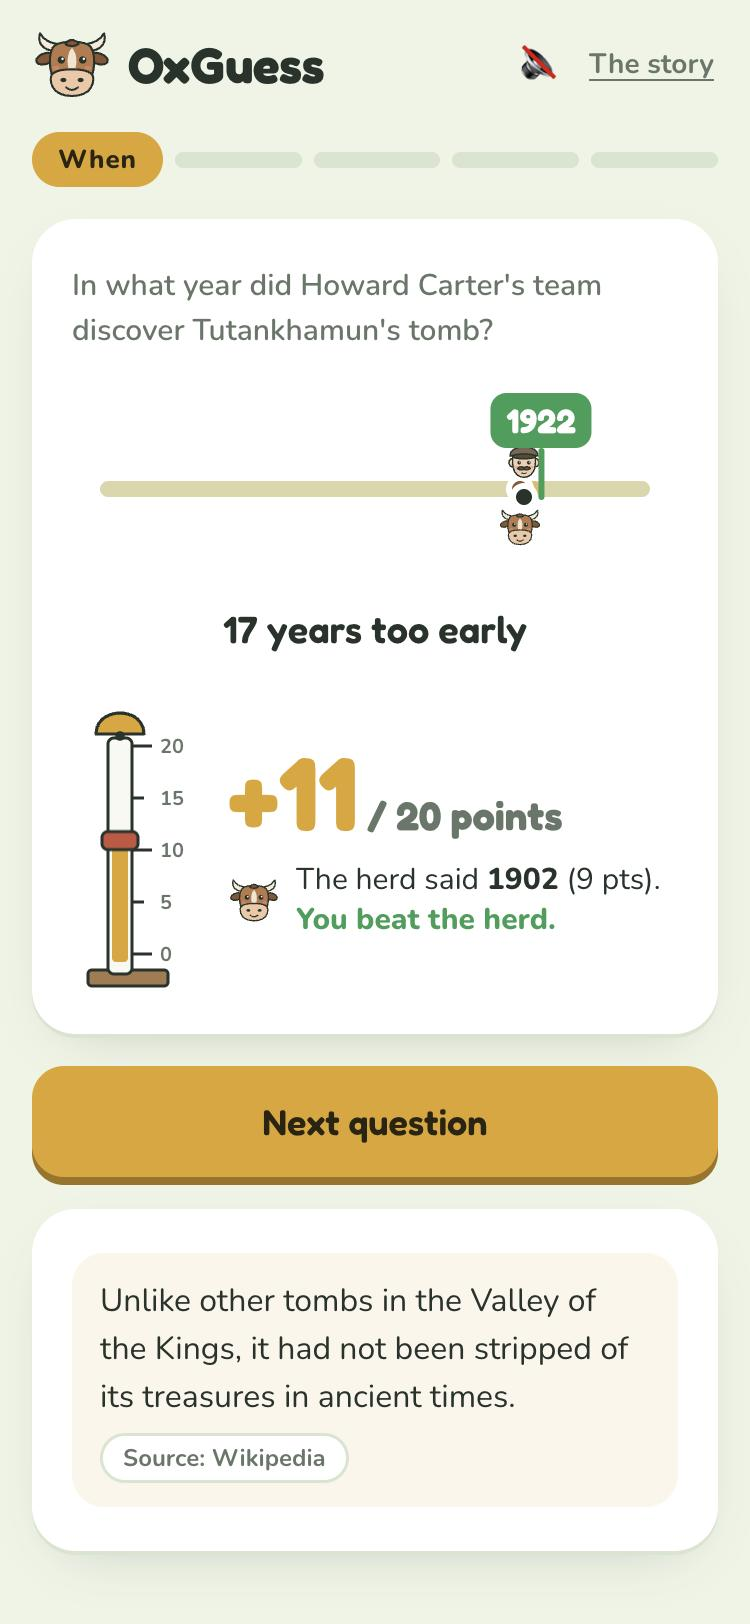
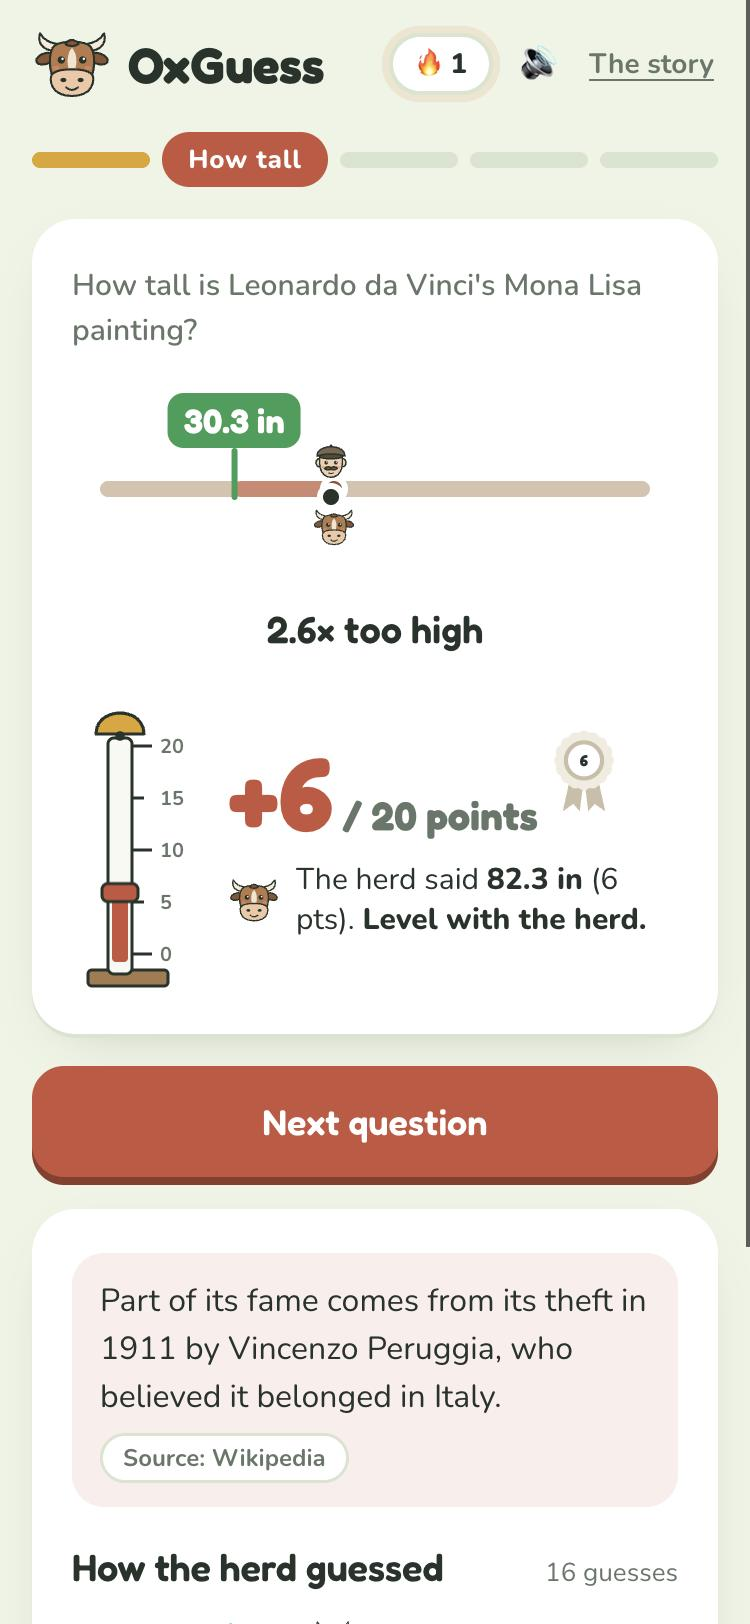
Staging: reveal in order (answer, herd, score, rosette), herd chart under the fact

diff --git a/site/staging/game/js/app.js b/site/staging/game/js/app.js
@@ -1,7 +1,7 @@
 import { oxHead, rosette, fairgoer, balance } from "./art.js";
 import {
   STEPS, CATS, PER_QUESTION, catLabel, catIcon, rangeFor, toValue, toPos, score, points, tierFor, TIERS,
-  withUnit, offBy, herd as makeHerd, SEED_GUESSES,
+  withUnit, offBy, herd as makeHerd, herdVerdict, SEED_GUESSES,
   setSystem, getSystem, convertible, dispUnit, unitPair, toDisp, fromDisp, fmtDisp,
 } from "./game.js";
 import { loadHerds, recordGuess, recordPlay, recordPlayer } from "./herd-store.js";
@@ -439,6 +439,29 @@ function sourceSite(url) {
     return host;
   } catch { return "the source"; }
 }
+function histogram(q, h, g) {
+  const r = rangeFor(q), B = 25, bins = new Array(B).fill(0);
+  h.bins.forEach((c, k) => { bins[Math.floor((k * B) / h.bins.length)] += c; });
+  const mx = Math.max(1, ...bins), W = 320, H = 110, bw = W / B, base = H - 8;
+  const x = (v) => (toPos(q, r, v) / STEPS) * W;
+  const bars = bins.map((c, i) => {
+    const bh = (c / mx) * (H - 34);
+    return `<rect class="bar" style="--i:${i}" x="${(i * bw + 1.5).toFixed(1)}" y="${(base - bh).toFixed(1)}" width="${(bw - 3).toFixed(1)}" height="${bh.toFixed(1)}" rx="3" fill="var(--cat)" opacity=".28"/>`;
+  }).join("");
+  const ax = x(q.answer), gx = x(g), mx2 = x(h.median), top = 26;
+  const icon = (cx, svg) => `<svg x="${(cx - 11).toFixed(1)}" y="${top - 23}" width="22" height="22" viewBox="0 0 120 120" overflow="visible">${svg.replace(/^<svg[^>]*>|<\/svg>$/g, "")}</svg>`;
+  return `<svg viewBox="-12 0 ${W + 24} ${H + 4}" role="img" aria-label="How the herd guessed">
+    ${bars}
+    <line x1="0" x2="${W}" y1="${base}" y2="${base}" stroke="var(--line)" stroke-width="1.5"/>
+    <line x1="${mx2}" x2="${mx2}" y1="${top}" y2="${base}" stroke="var(--ox-dark)" stroke-width="2" stroke-dasharray="3 3"/>
+    ${icon(mx2, oxHead({ size: 120 }))}
+    <line x1="${gx}" x2="${gx}" y1="${top}" y2="${base}" stroke="var(--ink)" stroke-width="2.5"/>
+    ${icon(gx, fairgoer({ size: 120 }))}
+    <line x1="${ax}" x2="${ax}" y1="${top - 18}" y2="${base}" stroke="var(--good)" stroke-width="3" stroke-linecap="round"/>
+    <path d="M${ax + 1.5} ${top - 18} l11 4.5 l-11 4.5 z" fill="var(--good)"/>
+  </svg>`;
+}
+
 // The fairground strength tester: the puck flies up to your points and rings the bell at 20.
 function striker() {
   const marks = [0, 5, 10, 15, 20].map((p) => {
@@ -457,34 +480,41 @@ function striker() {
 
 function reveal(i, { animate = false } = {}) {
   screen = "reveal";
-  const q = today.questions[i], a = state.answers[i], h = herd(q), r = rangeFor(q);
-  const p = points(q, a.g), them = points(q, h.median), last = i === today.questions.length - 1;
+  const q = today.questions[i], a = state.answers[i], h = herd(q), r = rangeFor(q), v = herdVerdict(q, h, a.g);
+  const p = points(q, a.g), them = points(q, h.median), t = tierFor(p), last = i === today.questions.length - 1;
   const gpos = toPos(q, r, a.g) / STEPS, apos = toPos(q, r, q.answer) / STEPS, hpos = toPos(q, r, h.median) / STEPS;
   // One line for the duel on this question: the herd's guess and who got closer.
   const duel = p > them ? `<b class="win">You beat the herd.</b>` : p === them ? `<b>Level with the herd.</b>` : `<b>The herd got closer.</b>`;
+  const hide = animate ? "is-hidden" : "";
   render(`
     ${progress(i, true)}
     <section class="card reveal">
       <p class="muted q-small">${q.q}</p>
       <div class="rail-wrap" aria-hidden="true">
         <div class="rail"></div>
-        <div class="span-bar" id="span" style="left:${Math.min(gpos, apos) * 100}%; width:${Math.abs(apos - gpos) * 100}%"></div>
-        <div class="herd-pin ${animate ? "is-hidden" : ""}" id="herd-pin" style="left:${hpos * 100}%"><i></i><span>${oxHead({ size: 22 })}</span></div>
+        <div class="span-bar ${hide}" id="span" style="left:${Math.min(gpos, apos) * 100}%; width:${Math.abs(apos - gpos) * 100}%"></div>
+        <div class="herd-pin ${hide}" id="herd-pin" style="left:${hpos * 100}%"><i></i><span>${oxHead({ size: 22 })}</span></div>
         <div class="you-pin" style="left:${gpos * 100}%"><i></i><span>${fairgoer({ size: 22 })}</span></div>
-        <div class="flag" id="flag" style="left:${apos * 100}%"><span id="flag-num">${withUnit(q, q.answer)}</span><i></i></div>
+        <div class="flag ${hide}" id="flag" style="left:${apos * 100}%"><span id="flag-num">${withUnit(q, q.answer)}</span><i></i></div>
       </div>
-      <p class="off-line ${animate ? "is-hidden" : ""}" id="off">${offBy(q, a.g)}</p>
+      <p class="off-line ${hide}" id="off">${offBy(q, a.g)}</p>
       <div class="judging">
         ${striker()}
         <div class="verdict">
-          <div class="plus"><span>+</span><span id="pts">${p}</span><small> / ${PER_QUESTION} points</small></div>
-          <p class="duel ${animate ? "is-hidden" : ""}" id="duel">${oxHead({ size: 26 })}<span>The herd said <b>${withUnit(q, h.median)}</b> (${them} pts). ${duel}</span></p>
+          <div class="plus-row"><div class="plus"><span>+</span><span id="pts">${p}</span><small> / ${PER_QUESTION} points</small></div><span class="mini-rosette ${hide}" id="rosette" title="${t.name}">${rosette(t.key, p, 34)}</span></div>
+          <p class="duel ${hide}" id="duel">${oxHead({ size: 26 })}<span>The herd said <b>${withUnit(q, h.median)}</b> (${them} pts). ${duel}</span></p>
         </div>
       </div>
     </section>
-    <button class="btn primary big ${animate ? "is-hidden" : ""}" id="next">${last ? "See how you did" : "Next question"}</button>
+    <button class="btn primary big ${hide}" id="next">${last ? "See how you did" : "Next question"}</button>
     <section class="card later ${animate ? "" : "shown"}">
         <div class="fact"><p>${q.fact}</p>${q.source ? `<a class="source-chip" href="${q.source.url}" target="_blank" rel="noopener">Source: ${sourceSite(q.source.url)}</a>` : ""}</div>
+        <div class="herd">
+          <div class="herd-head"><h2>How the herd guessed</h2><span class="muted">${h.players.toLocaleString("en-GB")} guesses</span></div>
+          ${histogram(q, h, a.g)}
+          <div class="legend"><span><i style="background:var(--good)"></i>Answer ${withUnit(q, q.answer)}</span><span>${fairgoer({ size: 14 })} You ${withUnit(q, a.g)} · ${p} pts</span><span>${oxHead({ size: 14 })} Herd ${withUnit(q, h.median)} · ${them} pts</span></div>
+          <p class="herd-beat">You beat <b>${v.beat}%</b> of the herd.</p>
+        </div>
     </section>`, q.cat);
 
   const puck = document.getElementById("puck"), fill = document.getElementById("fill");
@@ -502,12 +532,20 @@ function reveal(i, { animate = false } = {}) {
   if (!animate) { setStriker(); return; }
 
   (async () => {
-    // 1. The answer flag travels from your guess to the real answer, its number ticking as it goes.
-    const flag = document.getElementById("flag"), num = document.getElementById("flag-num"), span = document.getElementById("span");
-    const travel = Math.round(450 + Math.abs(apos - gpos) * 1100);
     const reduce = window.matchMedia?.("(prefers-reduced-motion: reduce)").matches;
-    document.getElementById("pts").textContent = "0";
+    const $ = (id) => document.getElementById(id);
+    const show = (id, scale = 1.08) => { const el = $(id); if (!el) return null; el.classList.remove("is-hidden"); pop(el, scale); return el; };
+    $("pts").textContent = "0";
+
+    // 1. Your guess sits on the line for a beat.
+    await wait(350);
+
+    // 2. The answer flag slides out from your guess to the real answer, the gap filling in behind it.
+    const flag = $("flag"), num = $("flag-num"), span = $("span");
+    if (!flag) return; // already moved on
+    flag.classList.remove("is-hidden"); span.classList.remove("is-hidden");
     if (!reduce) {
+      const travel = Math.round(450 + Math.abs(apos - gpos) * 1100);
       sfx.slide(travel);
       flag.animate([{ left: `${gpos * 100}%` }, { left: `${apos * 100}%` }], { duration: travel, easing: "cubic-bezier(.33,1,.68,1)" });
       span.animate([{ width: "0%", left: `${gpos * 100}%` }, { width: `${Math.abs(apos - gpos) * 100}%`, left: `${Math.min(gpos, apos) * 100}%` }], { duration: travel, easing: "cubic-bezier(.33,1,.68,1)" });
@@ -522,57 +560,61 @@ function reveal(i, { animate = false } = {}) {
       });
     }
     pop(num, 1.2);
-    const off = document.getElementById("off");
-    off.classList.remove("is-hidden");
-    pop(off, 1.08);
+    show("off");
+    await wait(300);
+
+    // 3. The herd's ox walks from the answer to where the herd guessed, a soft tick on each step.
+    const herdPin = show("herd-pin", 1.15);
+    if (!herdPin) return;
+    if (!reduce) {
+      const walk = Math.round(350 + Math.abs(hpos - apos) * 900), steps = Math.max(2, Math.round(walk / 170));
+      herdPin.animate([{ left: `${apos * 100}%` }, { left: `${hpos * 100}%` }], { duration: walk, easing: "cubic-bezier(.4,0,.3,1)" });
+      herdPin.querySelector("span").animate([{ transform: "translateY(0)" }, { transform: "translateY(3px)" }, { transform: "translateY(0)" }], { duration: walk / steps, iterations: steps });
+      for (let k = 0; k < steps; k++) { sfx.tick(); await wait(walk / steps); }
+    }
     await wait(200);
 
-    // 2. The strength tester: up goes the puck, the points count with it.
+    // 4. The strength tester: up goes the puck, the points count with it.
     const climb = 250 + p * 28;
+    if (!puck.isConnected) return;
     if (!reduce && p > 0) {
       sfx.whoosh(climb);
       puck.animate([{ transform: "translateY(0)" }, { transform: `translateY(${rise}px)` }], { duration: climb, easing: "cubic-bezier(.2,.8,.3,1)", fill: "forwards" });
       fill.animate([{ y: 132, height: 4 }, { y: 132 + rise, height: -rise + 4 }], { duration: climb, easing: "cubic-bezier(.2,.8,.3,1)", fill: "forwards" });
     }
-    await countUp(document.getElementById("pts"), p, climb, { sound: false });
+    await countUp($("pts"), p, climb, { sound: false });
     setStriker();
-
-    // 3. The judges' verdict.
     const plus = document.querySelector(".plus");
+    if (!plus) return;
     if (p === PER_QUESTION) {
       sfx.bell(); buzz([30, 40, 30, 40, 80]); flash();
-      document.getElementById("bell")?.animate([{ transform: "rotate(0)" }, { transform: "rotate(-14deg)" }, { transform: "rotate(12deg)" }, { transform: "rotate(-8deg)" }, { transform: "rotate(0)" }], { duration: 700 });
+      $("bell")?.animate([{ transform: "rotate(0)" }, { transform: "rotate(-14deg)" }, { transform: "rotate(12deg)" }, { transform: "rotate(-8deg)" }, { transform: "rotate(0)" }], { duration: 700 });
       const rect = document.querySelector(".striker").getBoundingClientRect();
       bunting({ x: rect.left + rect.width / 2, y: rect.top + 20 });
     } else if (p >= 17) { sfx.chime(); buzz([20, 30, 20]); sparkle(plus); }
     else if (p >= 8) { sfx.plink(); buzz(15); }
     else { sfx.wobble(); buzz(8); }
     pop(plus, 1.18);
-
-    // 4. The herd trots along the line from your guess to its own, then says who got closer.
     await wait(350);
-    const herdPin = document.getElementById("herd-pin");
-    if (!herdPin) return; // already moved on to the next question
-    herdPin.classList.remove("is-hidden");
-    if (!reduce) {
-      const trot = Math.round(400 + Math.abs(hpos - gpos) * 700);
-      herdPin.animate([{ left: `${gpos * 100}%` }, { left: `${hpos * 100}%` }], { duration: trot, easing: "cubic-bezier(.33,1,.68,1)" });
-      herdPin.querySelector("span").animate([{ transform: "translateY(0)" }, { transform: "translateY(-4px)" }, { transform: "translateY(0)" }], { duration: 180, iterations: Math.max(2, Math.round(trot / 180)) });
-      await wait(trot);
-    }
-    const duelEl = document.getElementById("duel");
-    if (!duelEl) return;
-    duelEl.classList.remove("is-hidden");
-    pop(duelEl, 1.06);
-    if (p > them) sfx.chime();
 
-    // 5. Then Next, with the fact underneath for anyone who scrolls.
-    await wait(400);
+    // 5. What the herd said, and who got closer.
+    if (!show("duel", 1.06)) return;
+    if (p > them) sfx.chime();
+    await wait(450);
+
+    // 6. The judges pin a rosette on it.
+    const ros = $("rosette");
+    if (!ros) return;
+    ros.classList.remove("is-hidden");
+    sfx.stamp(); buzz(12);
+    ros.animate([{ transform: "scale(.3) rotate(-30deg)", opacity: 0 }, { transform: "scale(1.2) rotate(8deg)", opacity: 1 }, { transform: "none" }], { duration: 420, easing: "cubic-bezier(.3,1.5,.5,1)" });
+    await wait(450);
+
+    // 7. Then Next, with the fact and the herd underneath for anyone who scrolls.
     const later = document.querySelector(".later");
     if (!later) return;
     later.classList.add("shown");
-    const next = document.getElementById("next");
-    next.classList.remove("is-hidden");
+    $("next")?.classList.remove("is-hidden");
   })();
 }
 
@@ -586,7 +628,7 @@ function compare(q, g, herdGuess, yp, hp) {
     const x = at(v), lab = `<span class="duo-lab">${icon}<b>${withUnit(q, v)}</b>${p} pts</span>`, post = `<span class="post">${who === "you" ? '<i class="stem"></i><i class="dot"></i>' : '<i class="dot"></i><i class="stem"></i>'}</span>`;
     return `<div class="duo-pin ${who} ${side(x)}" style="left:${x * 100}%">${who === "you" ? lab + post : post + lab}</div>`;
   };
-  return `<div class="duo-head"><span class="ans"><i class="ans-flag"></i>Answer <b>${withUnit(q, q.answer)}</b></span></div>
+  return `<div class="answer-pill"><i class="ans-flag"></i>Answer <b>${withUnit(q, q.answer)}</b></div>
     <div class="duo" aria-label="Answer ${withUnit(q, q.answer)}; you ${withUnit(q, g)}, ${yp} points; the herd ${withUnit(q, herdGuess)}, ${hp} points">
       <div class="duo-line"></div><i class="duo-ans" style="left:${at(q.answer) * 100}%"></i>
       ${pin("you", fairgoer({ size: 20 }), g, yp)}
@@ -600,8 +642,8 @@ function results({ celebrate = false } = {}) {
   const grid = state.answers.map((_, i) => tierFor(ptsAt(i)).short).join("");
   const s = streak();
   const beat = you > herdScore, level = you === herdScore;
-  const duelShare = beat ? "I beat the herd!" : level ? "Dead level with the herd" : "The herd beat me";
-  const share = `OxGuess · Round ${today.number} 🐂\n${grid} ${you}/${max}\nHerd ${herdScore}/${max} · ${duelShare}${s > 1 ? `\n🔥 ${s}-day streak` : ""}\nhttps://oxguess.com/`;
+  // A blank line after the title and before the link, so it reads cleanly in a chat.
+  const share = `OxGuess · Round ${today.number} 🐂\n\n${grid} ${you}/${max}${s > 1 ? `\n🔥 ${s}-day streak` : ""}\n\noxguess.com`;
   const headline = beat ? "You beat the herd!" : level ? "Dead level with the herd" : "The herd wins today";
   const sub = beat ? "Smarter than the crowd. Don't let it go to your head." : level ? "Great minds, and all that." : "It knows things. Tomorrow's another fair.";
   render(`
@@ -622,7 +664,7 @@ function results({ celebrate = false } = {}) {
         const q = qs[i], yp = ptsAt(i);
         return `<div class="my-rosette ${celebrate ? "pending" : ""}">${rosette(tierFor(yp).key, yp, 42)}<span>${catLabel(q)}</span></div>`;
       }).join("")}</div>
-      <button class="btn primary big" id="share">Share my score</button>
+      <button class="btn primary big" id="share">Share my rosettes</button>
       <p class="fine center" id="copied" hidden>Copied. Go on, show off.</p>
       <pre class="share-text" id="share-text" hidden>${share}</pre>
       <p class="center muted">New guesses in <b id="cd"></b></p>

diff --git a/site/staging/compare/index.html b/site/staging/compare/index.html
@@ -50,7 +50,7 @@
   <section class="card">
     <span class="eyebrow">1 · The reveal</span>
     <h2>The herd moves onto the line, and the score is said once</h2>
-    <p>Same guess (1905) on today's Tutankhamun question. Today the herd's answer is in a second card below "Next question", so most people likely never see it.</p>
+    <p>Before: today's Tutankhamun question. After: tomorrow's Mona Lisa question (its herd is only the 15 starter guesses so far).</p>
     <div class="pair">
       <div class="side"><span class="tag">Now</span>
         <div class="shots"><img class="shot" src="img/before-reveal.jpg" alt="Current reveal: line with your pin and the answer, strength tester, points and a rosette, then Next question, with the herd card starting below"><img class="shot" src="img/before-reveal-below.jpg" alt="Current reveal scrolled down: the herd card with you and herd numbers, a bar chart, a legend, a sentence and the fact"></div>
@@ -58,10 +58,10 @@
       <div class="side"><span class="tag new">Proposed</span>
         <img class="shot" src="img/after-reveal.jpg" alt="Proposed reveal: your pin above the line, the herd's ox below it, the answer flag, the strength tester and points, and one line saying the herd said 1902 and you beat it, then Next question and the fact">
         <ul class="small">
-          <li>The herd's ox sits under the line, next to you and the answer. After the flag lands it trots from your guess to its own.</li>
-          <li>One line says who won the question: "The herd said 1902 (9 pts). You beat the herd."</li>
-          <li>Gone: the rosette and prize name (they're still on the results screen), the herd card, the bar chart and its legend.</li>
-          <li>The fact stays underneath. No emoji on the source button.</li>
+          <li>Your guess sits on the line, then the answer flag slides out from it with the gap filling in.</li>
+          <li>The herd's ox walks from the answer to where the herd guessed, ticking as it goes.</li>
+          <li>Then the strength tester and your points, then "The herd said …" and who got closer, then a small rosette stamped top right of your score.</li>
+          <li>Under Next and the fact: the herd chart with its three lines (answer, you, herd), each value and score, and "You beat X% of the herd".</li>
         </ul>
       </div>
     </div>
@@ -70,7 +70,7 @@
   <section class="card">
     <span class="eyebrow">2 · Results, question by question</span>
     <h2>One line per question instead of two</h2>
-    <p>Same round, same guesses. You sit above the line with your guess and points, the herd below it, the answer as a green tick. Near either end the labels tuck inwards so they never run off the card.</p>
+    <p>You sit above the line with your guess and points, the herd below it, the answer as a green tick, with the green Answer pill kept from today's version. Near either end the labels tuck inwards.</p>
     <div class="pair">
       <div class="side"><span class="tag">Now</span><img class="shot" src="img/before-rows.jpg" alt="Current results rows: an answer pill, then a You row with its own track and a Herd row with its own track, each with the answer flag"></div>
       <div class="side"><span class="tag new">Proposed</span><img class="shot" src="img/after-rows.jpg" alt="Proposed results rows: the answer above one line, your pin pointing down onto it from above with your guess and points, the herd's pin pointing up from below with its guess and points, and a green tick for the answer"></div>
@@ -79,15 +79,18 @@
 
   <section class="card">
     <span class="eyebrow">3 · Sharing</span>
-    <h2>The share text carries the duel</h2>
+    <h2>Same share text, with breathing room</h2>
     <div class="pair">
-      <div class="side"><span class="tag">Now</span><pre class="share">OxGuess · Round 3 🐂
-🥇▫▫▫⚪ 24/100
+      <div class="side"><span class="tag">Now</span><pre class="share">OxGuess · Round 4 🐂
+⚪⚪⚪⚪▫ 21/100
+🔥 2-day streak
 https://oxguess.com/</pre></div>
-      <div class="side"><span class="tag new">Proposed</span><pre class="share">OxGuess · Round 3 🐂
-🥉▫▫▫⚪ 18/100
-Herd 74/100 · The herd beat me
-https://oxguess.com/</pre><p class="small muted">The button reads "Share my score". The new version's scores are lower here because of the scoring change below.</p></div>
+      <div class="side"><span class="tag new">Proposed</span><pre class="share">OxGuess · Round 4 🐂
+
+⚪⚪⚪⚪▫ 21/100
+🔥 2-day streak
+
+oxguess.com</pre></div>
     </div>
   </section>
 

diff --git a/site/staging/game/styles.css b/site/staging/game/styles.css
@@ -285,10 +285,20 @@ input[type=range]:focus-visible { outline: 3px solid var(--cat); outline-offset:
 .duel { display: flex; align-items: center; gap: 8px; font-size: 15px; line-height: 1.35; }
 .duel svg { flex: none; }
 .duel b.win { color: var(--good); }
+.plus-row { display: flex; align-items: flex-start; gap: 6px; }
+.mini-rosette { display: flex; flex: none; margin-top: -6px; }
 
 /* then the fact, for anyone who scrolls */
 .later:not(.shown) { display: none; }
 .later.shown > * { animation: rise .4s ease-out both; }
+.later.shown > *:nth-child(2) { animation-delay: .12s; }
+.later.shown .bar { animation: grow .5s cubic-bezier(.2, .9, .3, 1.2) both; animation-delay: calc(var(--i) * 18ms + .15s); transform-origin: bottom; transform-box: fill-box; }
+.herd { display: flex; flex-direction: column; gap: 8px; }
+.herd-head { display: flex; justify-content: space-between; align-items: baseline; gap: 10px; flex-wrap: wrap; }
+.herd-head .muted { font-size: 13px; }
+.herd > svg { width: 100%; height: auto; display: block; }
+.herd .legend { justify-content: center; }
+.herd-beat { text-align: center; font-size: 15px; }
 .legend { display: flex; flex-wrap: wrap; gap: 6px 14px; font-size: 13px; color: var(--muted); }
 .legend span { display: inline-flex; align-items: center; gap: 4px; }
 .legend i { display: inline-block; width: 12px; height: 4px; border-radius: 2px; margin-right: 2px; }
@@ -345,9 +355,8 @@ input[type=range]:focus-visible { outline: 3px solid var(--cat); outline-offset:
 .duo-lab { display: inline-flex; align-items: center; gap: 5px; white-space: nowrap; font-size: 13px; color: var(--muted); font-weight: 700; }
 .duo-lab b { font-family: var(--display); font-weight: 600; font-size: 15px; color: var(--ink); }
 .duo-pin.herd .duo-lab b { color: var(--ox-dark); }
-.duo-head { display: flex; justify-content: space-between; align-items: center; gap: 8px; font-size: 13px; color: var(--muted); font-weight: 700; padding-left: 40px; }
-.duo-head .ans { display: inline-flex; align-items: center; color: var(--good); }
-.duo-head .ans b { font-family: var(--display); font-size: 16px; margin-left: 4px; }
+.answer-pill { align-self: center; display: inline-flex; align-items: center; gap: 6px; margin-left: 40px; padding: 4px 14px; border-radius: 99px; background: var(--good-soft); color: var(--good); font-weight: 700; font-size: 14px; }
+.answer-pill b { font-family: var(--display); font-size: 17px; }
 
 .tiers { list-style: none; padding: 0; margin: 0; display: grid; grid-template-columns: repeat(auto-fill, minmax(140px, 1fr)); gap: 8px 12px; }
 .tiers li { display: flex; align-items: center; gap: 8px; font-weight: 700; font-size: 14px; }
@@ -407,6 +416,6 @@ input[type=range]:focus-visible { outline: 3px solid var(--cat); outline-offset:
 
 @media (prefers-reduced-motion: reduce) {
   .hero-ox .ox, .story-hero .ox, .streak-pill, .stagger > *, .enter, .story-page, .story-dot, .story-mark, .story-bunting i,
-  .balance .beam, .balance .pan-l, .balance .pan-r, .later.shown > * { animation: none; }
+  .balance .beam, .balance .pan-l, .balance .pan-r, .later.shown > *, .later.shown .bar { animation: none; }
   .btn { transition: none; }
 }
